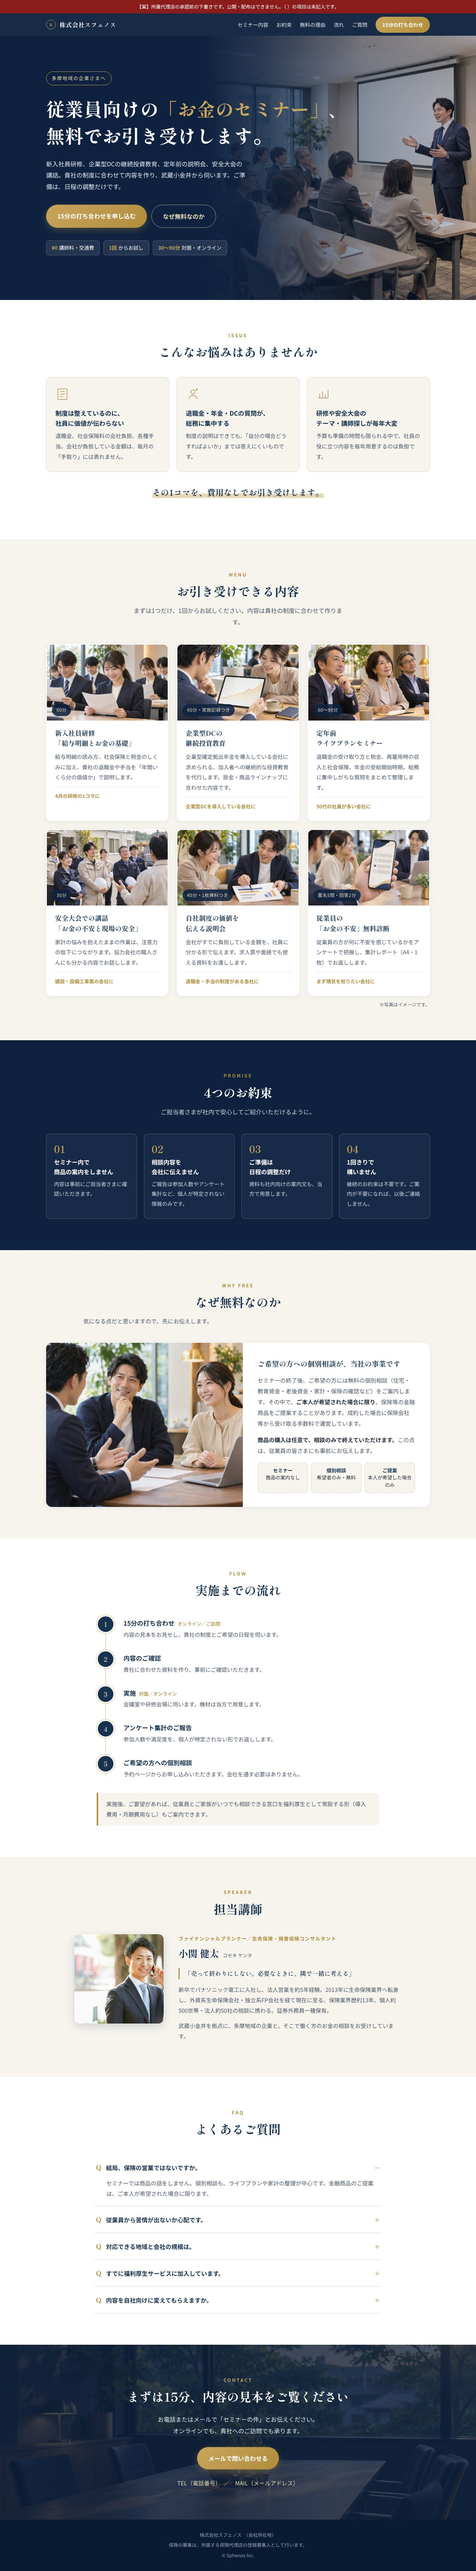
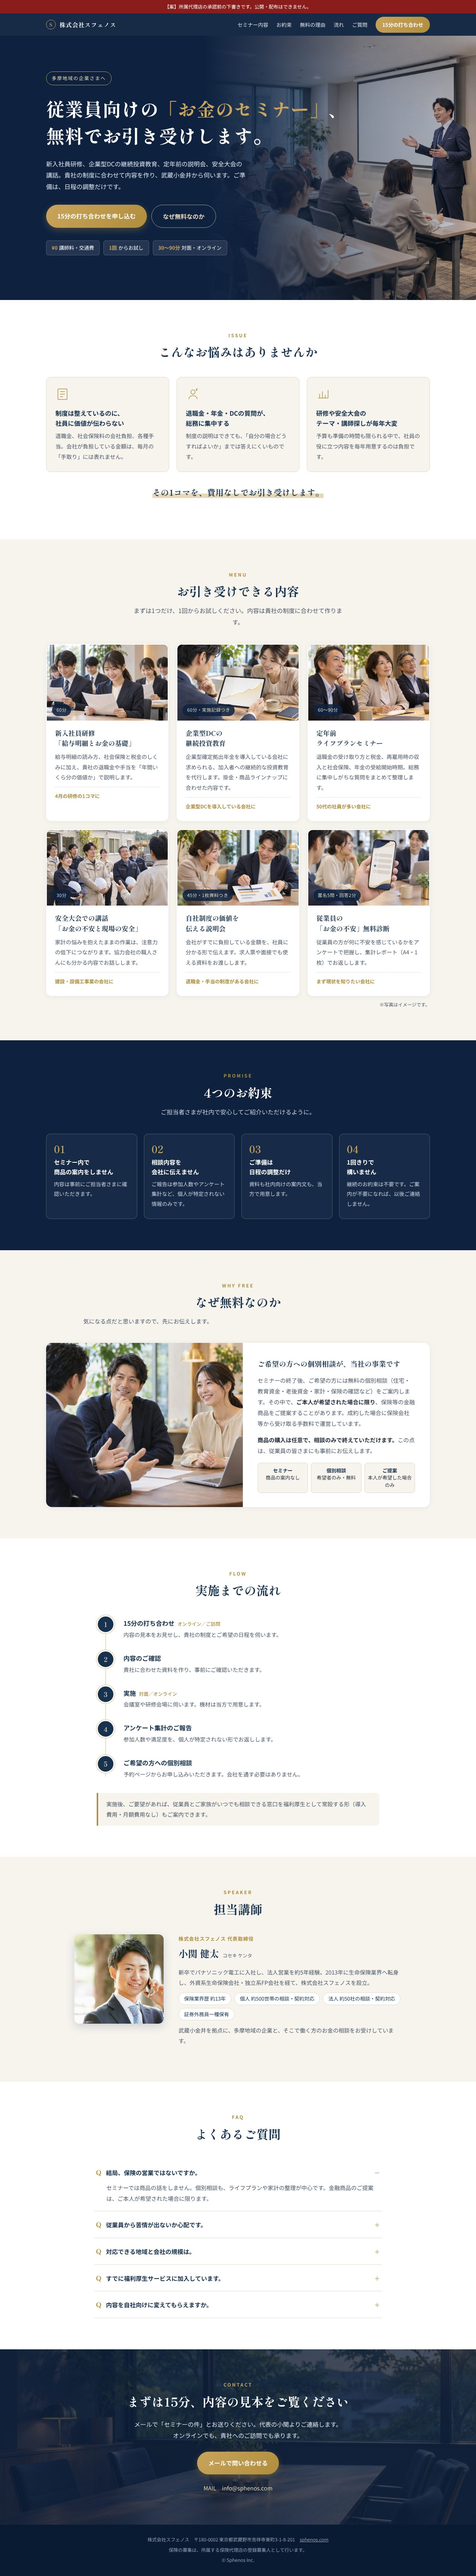
対外文面から代理店名を外し、差出人情報を記入。LPの講師写真・連絡先を更新
Claude-Session: https://claude.ai/code/session_01P1Jscf4cTZKgUuMGeDDT6j

diff --git a/fukuri-fp-sales/lp/index.html b/fukuri-fp-sales/lp/index.html
@@ -122,7 +122,9 @@ h2{font-family:var(--serif);font-size:clamp(1.5rem,3.4vw,2.05rem);color:var(--na
 .prof h3{font-family:var(--serif);font-size:1.6rem;color:var(--navy);margin:.1em 0 .1em}
 .prof h3 small{font-size:.8rem;color:var(--ink-soft);margin-left:10px;font-family:var(--sans);font-weight:400}
 .prof .q{font-family:var(--serif);color:var(--navy);border-left:3px solid var(--gold);padding-left:14px;margin:14px 0;font-size:1.02rem}
-.prof p{font-size:.93rem;color:var(--ink-soft);margin:0 0 .8em}
+.prof p{font-size:.93rem;color:var(--ink-soft);margin:.8em 0}
+.facts{list-style:none;padding:0;margin:0 0 .8em;display:flex;flex-wrap:wrap;gap:8px}
+.facts li{background:var(--white);border:1px solid var(--line);border-radius:999px;padding:3px 14px;font-size:.84rem;color:var(--navy)}
 
 /* FAQ */
 .faq{background:var(--white)}
@@ -168,7 +170,7 @@ footer p{margin:.3em 0}
 </style>
 </head>
 <body>
-<div class="draft">【案】所属代理店の承認前の下書きです。公開・配布はできません。（ ）の項目は未記入です。</div>
+<div class="draft">【案】所属代理店の承認前の下書きです。公開・配布はできません。</div>
 
 <div class="nav"><div class="wrap">
   <a class="brand" href="#top"><i>S</i>株式会社スフェノス</a>
@@ -290,10 +292,10 @@ footer p{margin:.3em 0}
   <div class="prof">
     <img src="assets/koseki.jpg" alt="小関 健太" width="240" height="240">
     <div>
-      <div class="role">ファイナンシャルプランナー／生命保険・損害保険コンサルタント</div>
+      <div class="role">株式会社スフェノス 代表取締役</div>
       <h3>小関 健太<small>コセキ ケンタ</small></h3>
-      <p class="q">「売って終わりにしない。必要なときに、隣で一緒に考える」</p>
-      <p>新卒でパナソニック電工に入社し、法人営業を約5年経験。2013年に生命保険業界へ転身し、外資系生命保険会社・独立系FP会社を経て現在に至る。保険業界歴約13年。個人約500世帯・法人約50社の相談に携わる。証券外務員一種保有。</p>
+      <p>新卒でパナソニック電工に入社し、法人営業を約5年経験。2013年に生命保険業界へ転身し、外資系生命保険会社・独立系FP会社を経て、株式会社スフェノスを設立。</p>
+      <ul class="facts"><li>保険業界歴 約13年</li><li>個人 約500世帯の相談・契約対応</li><li>法人 約50社の相談・契約対応</li><li>証券外務員一種保有</li></ul>
       <p>武蔵小金井を拠点に、多摩地域の企業と、そこで働く方のお金の相談をお受けしています。</p>
     </div>
   </div>
@@ -310,13 +312,13 @@ footer p{margin:.3em 0}
 
 <section class="contact" id="contact"><div class="wrap">
   <div class="sec-head" style="margin-bottom:22px"><div class="en" style="color:var(--gold-bright)">CONTACT</div><h2>まずは15分、内容の見本をご覧ください</h2></div>
-  <p>お電話またはメールで「セミナーの件」とお伝えください。<br>オンラインでも、貴社へのご訪問でも承ります。</p>
-  <a class="btn" href="mailto:（メールアドレス）?subject=%E3%82%BB%E3%83%9F%E3%83%8A%E3%83%BC%E3%81%AE%E4%BB%B6">メールで問い合わせる</a>
-  <div class="info">TEL（電話番号）　／　MAIL（メールアドレス）</div>
+  <p>メールで「セミナーの件」とお送りください。代表の小関よりご連絡します。<br>オンラインでも、貴社へのご訪問でも承ります。</p>
+  <a class="btn" href="mailto:info@sphenos.com?subject=%E3%82%BB%E3%83%9F%E3%83%8A%E3%83%BC%E3%81%AE%E4%BB%B6">メールで問い合わせる</a>
+  <div class="info">MAIL　info@sphenos.com</div>
 </div></section>
 
 <footer><div class="wrap">
-  <p>株式会社スフェノス　（会社所在地）</p>
+  <p>株式会社スフェノス　〒180-0002 東京都武蔵野市吉祥寺東町3-1-8-201　<a href="https://sphenos.com/">sphenos.com</a></p>
   <p>保険の募集は、所属する保険代理店の登録募集人として行います。</p>
   <p>© Sphenos Inc.</p>
 </div></footer>

diff --git a/fukuri-fp-sales/sfs/outreach.py b/fukuri-fp-sales/sfs/outreach.py
@@ -16,7 +16,7 @@ log = get_logger()
 
 OBJECTIONS = [
     ("なぜ無料なのですか。", "相談の結果、ご本人が希望された場合に限り、保険等の金融商品をご提案することがあり、その際に保険会社等から受け取る手数料で運営しています。この点は従業員の皆さまにも事前に明示します。商品の購入は利用の条件ではなく、相談のみのご利用で終了いただいて構いません。"),
-    ("結局は保険の営業ではないですか。", "ご相談の中心は住宅・教育・老後・家計といったライフプランです。金融商品のご提案はご本人の希望がある場合に限り、登録募集人として法令と所属代理店（ファイナンシャルアライアンス株式会社）のルールに沿って行います。勧誘を目的とした一斉案内や、断りにくい状況での提案は行いません。"),
+    ("結局は保険の営業ではないですか。", "ご相談の中心は住宅・教育・老後・家計といったライフプランです。金融商品のご提案はご本人の希望がある場合に限り、登録募集人として法令と所属する保険代理店のルールに沿って行います。勧誘を目的とした一斉案内や、断りにくい状況での提案は行いません。"),
     ("従業員の相談内容が会社に伝わるのは困ります。", "個別の相談内容は勤務先には一切開示しません。会社にご報告するのは、利用件数など個人が特定されない集計情報のみです（少人数の内訳は非表示にします）。"),
     ("すでに福利厚生サービスに加入しています。", "既存の福利厚生サービスと競合せず、併用いただけます。割引型サービスでは手薄になりがちな「個別のお金の相談」を、費用負担なしで追加するものです。"),
     ("担当者の手間が増えるのは避けたいです。", "社内告知文・案内資料・予約ページ（QRコード）はすべて当方でご用意します。ご担当者さまには初回の社内告知をお願いするだけで、予約受付・リマインド・実施は当方で完結します。"),

diff --git a/fukuri-fp-sales/sfs/onboarding.py b/fukuri-fp-sales/sfs/onboarding.py
@@ -113,7 +113,7 @@ def _pdf(path: Path, ctx: dict, qr_png: Path) -> None:
                                      "　（勤務先へのご報告は、利用件数など個人が特定されない集計のみです）",
                                      "・ご本人が希望された場合に限り、保険等の金融商品をご提案することがあります。",
                                      "　商品の購入は利用の条件ではなく、相談のみで終了いただけます。",
-                                     f"・保険募集は{s['agency']}所属の登録募集人として行います。"])
+                                     f"・保険募集は{s['agency']}の登録募集人として行います。"])
     para("ご予約方法", ["右のQRコード、または下記URLの予約ページからご希望の日時をお選びください。",
                        ctx["a"]["予約ページURL"]])
     c.drawImage(str(qr_png), w - 62 * mm, 30 * mm, 42 * mm, 42 * mm)

diff --git a/fukuri-fp-sales/tests/test_system.py b/fukuri-fp-sales/tests/test_system.py
@@ -86,7 +86,7 @@ def test_kit_contains_all_sections_and_disclosures(loaded, settings):
     for sec in ("1. なぜこの企業", "2. 福利厚生FP相談の導入メリット", "3. 最も適切な接触方法", "4. 初回メール案",
                 "5. 電話スクリプト", "6. SNS・紹介で接点をつくる", "7. 手紙案", "8. 想定される反論", "9. 次回フォローアップ"):
         assert sec in kit
-    for must in ("ファイナンシャルアライアンス株式会社", "購入は利用の条件ではありません", "承認が未登録", "以後のご連絡は控えます"):
+    for must in ("登録募集人", "購入は利用の条件ではありません", "承認が未登録", "以後のご連絡は控えます"):
         assert must in kit
 
 

diff --git a/fukuri-fp-sales/sfs/forms.py b/fukuri-fp-sales/sfs/forms.py
@@ -194,7 +194,7 @@ def render_form_message(row: dict, settings: dict, variant: str) -> tuple[str, s
         "",
         f"{s['company']} {s['title']} {s['name']}／{s['address']}",
         f"TEL {s['phone']}／MAIL {s['email']}／{s['website']}",
-        f"保険募集は{s['agency']}所属の登録募集人として行います。",
+        f"保険募集は{s['agency']}の登録募集人として行います。",
     ])
     return msg["plays"][key]["subject"], body
 
